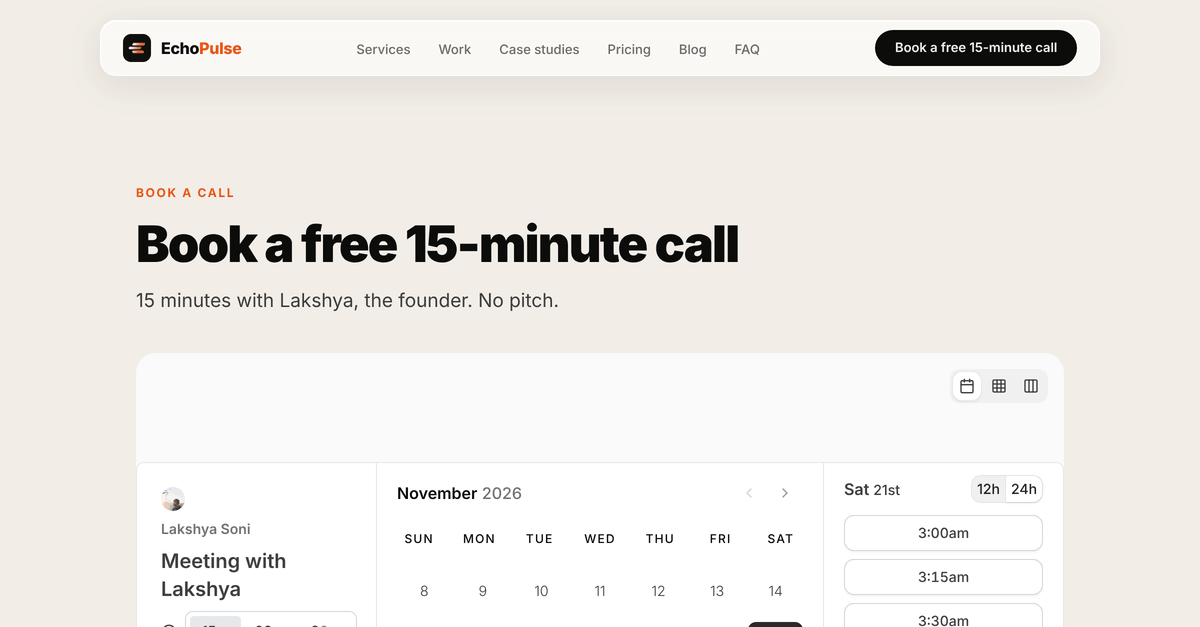
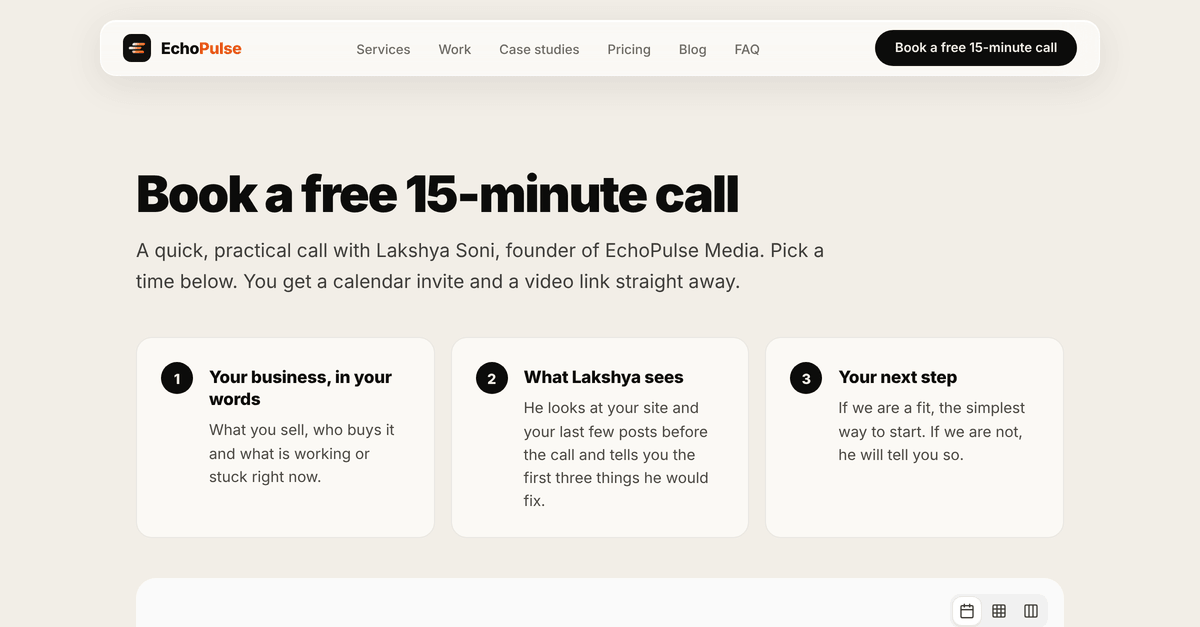
Book page: what happens on the call, who you talk to and a short FAQ around the calendar; custom cursor hides over embedded calendars instead of freezing at their edge
Claude-Session: https://claude.ai/code/session_01Qz8DN2rpKWMigkZSWL7YHW

diff --git a/app/book/page.tsx b/app/book/page.tsx
@@ -2,7 +2,8 @@ import type { Metadata } from 'next';
 import Nav from '@/components/Nav';
 import Footer from '@/components/Footer';
 import BookPageEmbed from '@/components/BookPageEmbed';
-import { BOOK_CALL_LABEL, BOOK_CALL_REASSURANCE } from '@/lib/links';
+import Link from 'next/link';
+import { BOOK_CALL_LABEL } from '@/lib/links';
 import { ogImages } from '@/lib/ogImages';
 
 /**
@@ -43,6 +44,20 @@ export const metadata: Metadata = {
   },
 };
 
+const STEPS = [
+  { t: 'Your business, in your words', d: 'What you sell, who buys it and what is working or stuck right now.' },
+  { t: 'What Lakshya sees', d: 'He looks at your site and your last few posts before the call and tells you the first three things he would fix.' },
+  { t: 'Your next step', d: 'If we are a fit, the simplest way to start. If we are not, he will tell you so.' },
+];
+
+const FAQ = [
+  { q: 'Is it really free?', a: 'Yes. 15 minutes, no card and no obligation. You keep the notes whether or not you hire us.' },
+  { q: 'Is this a sales call?', a: 'No pitch. You get an honest read of your content, website and setup. If there is a fit, we tell you how to start, and you decide.' },
+  { q: 'Which time zone are the slots in?', a: 'The calendar shows times in your own time zone automatically. We work with clients in the US, UK, Canada, Australia, Western Europe and India.' },
+  { q: 'What should I have ready?', a: 'Nothing to prepare. If you want more out of the 15 minutes, have your website or main social profile open and one goal for the next 90 days.' },
+  { q: 'No time that works?', a: 'Email lakshyasoni2703@gmail.com with two or three times that suit you, or start with 2 free edited videos instead.' },
+];
+
 export default function BookPage() {
   return (
     <>
@@ -50,25 +65,87 @@ export default function BookPage() {
       <main id="main" className="bk-main">
         <div className="bk-wrap">
           <header className="bk-head">
-            <p className="bk-eyebrow">Book a call</p>
             <h1 className="bk-h1">{BOOK_CALL_LABEL}</h1>
-            <p className="bk-lead">{BOOK_CALL_REASSURANCE}</p>
+            <p className="bk-lead">
+              A quick, practical call with Lakshya Soni, founder of EchoPulse Media. Pick a time below. You get a calendar invite and a video link straight away.
+            </p>
           </header>
+
+          <ol className="bk-steps" aria-label="What happens on the call">
+            {STEPS.map((s, i) => (
+              <li key={s.t}>
+                <span className="bk-n" aria-hidden="true">{i + 1}</span>
+                <div>
+                  <p className="bk-st">{s.t}</p>
+                  <p>{s.d}</p>
+                </div>
+              </li>
+            ))}
+          </ol>
+
           <BookPageEmbed />
+
+          <section className="bk-more" aria-labelledby="bk-faq-h">
+            <div className="bk-who">
+              <h2 id="bk-who-h">Who you will talk to</h2>
+              <p>
+                <Link href="/about/lakshya-soni">Lakshya Soni</Link>, the founder. He runs every first call himself and reviews every piece of work before a client sees it. EchoPulse Media is a growth partner for founders and businesses: content, websites, custom software, AI and automation, and search.
+              </p>
+              <p className="bk-links">
+                <Link href="/case-studies">See the case studies</Link>
+                <Link href="/pricing">See the prices</Link>
+              </p>
+            </div>
+            <div className="bk-faq">
+              <h2 id="bk-faq-h">Before you book</h2>
+              <dl>
+                {FAQ.map((f) => (
+                  <div key={f.q}>
+                    <dt>{f.q}</dt>
+                    <dd>
+                      {f.q === 'No time that works?' ? (
+                        <>
+                          Email <a href="mailto:lakshyasoni2703@gmail.com">lakshyasoni2703@gmail.com</a> with two or three times that suit you, or <Link href="/free-edits">start with 2 free edited videos</Link> instead.
+                        </>
+                      ) : f.a}
+                    </dd>
+                  </div>
+                ))}
+              </dl>
+            </div>
+          </section>
         </div>
       </main>
       <Footer />
       <style>{`
         .bk-main { background: #F2EEE7; font-family: Inter, sans-serif; color: #0C0C0B; }
-        .bk-wrap { width: 100%; max-width: 1040px; margin: 0 auto; padding: 184px 56px 112px; }
-        .bk-head { margin-bottom: 36px; }
-        .bk-eyebrow { margin: 0 0 16px; font-size: 12px; font-weight: 700; letter-spacing: 0.14em; text-transform: uppercase; color: #E8541A; }
+        .bk-wrap { width: 100%; max-width: 1040px; margin: 0 auto; padding: 168px 56px 112px; }
+        .bk-head { margin-bottom: 40px; max-width: 720px; }
         .bk-h1 { margin: 0 0 16px; font-size: clamp(36px, 4.2vw, 56px); font-weight: 900; letter-spacing: -0.035em; line-height: 1.04; text-wrap: balance; }
-        .bk-lead { margin: 0; font-size: 19px; line-height: 1.6; color: #3E3D3A; max-width: 60ch; }
+        .bk-lead { margin: 0; font-size: 19px; line-height: 1.6; color: #3E3D3A; }
+        .bk-steps { list-style: none; margin: 0 0 40px; padding: 0; display: grid; grid-template-columns: repeat(3, minmax(0, 1fr)); gap: 16px; }
+        .bk-steps li { display: grid; grid-template-columns: 32px minmax(0, 1fr); gap: 16px; padding: 24px; background: #FBF9F5; border: 1px solid rgba(12,12,11,0.08); border-radius: 16px; }
+        .bk-n { width: 32px; height: 32px; border-radius: 50%; background: #0C0C0B; color: #F2EEE7; font-size: 14px; font-weight: 800; display: flex; align-items: center; justify-content: center; }
+        .bk-steps .bk-st { margin: 4px 0 8px !important; font-size: 17px !important; color: #0C0C0B !important; font-weight: 800; letter-spacing: -0.01em; line-height: 1.3; }
+        .bk-steps p:not(.bk-st) { margin: 0; font-size: 15px; line-height: 1.55; color: #4A4740; }
+        .bk-more { display: grid; grid-template-columns: minmax(0, 5fr) minmax(0, 7fr); gap: 64px; margin-top: 80px; padding-top: 48px; border-top: 1px solid rgba(12,12,11,0.12); }
+        .bk-more h2 { margin: 0 0 16px; font-size: 24px; font-weight: 800; letter-spacing: -0.02em; line-height: 1.2; }
+        .bk-who p { margin: 0 0 16px; font-size: 16px; line-height: 1.65; color: #3E3D3A; }
+        .bk-more a { color: #0C0C0B; font-weight: 700; text-decoration: underline; text-decoration-color: #E8541A; text-underline-offset: 4px; }
+        .bk-links { display: flex; flex-wrap: wrap; gap: 24px; }
+        .bk-faq dl { margin: 0; }
+        .bk-faq dl > div { padding: 20px 0; border-bottom: 1px solid rgba(12,12,11,0.1); }
+        .bk-faq dl > div:first-child { padding-top: 0; }
+        .bk-faq dt { margin: 0 0 8px; font-size: 16px; font-weight: 800; }
+        .bk-faq dd { margin: 0; font-size: 15px; line-height: 1.6; color: #4A4740; }
         @media (max-width: 900px) {
-          .bk-wrap { padding: 140px 16px 80px; }
+          .bk-wrap { padding: 128px 16px 80px; }
           .bk-head { margin-bottom: 24px; }
           .bk-lead { font-size: 17px; }
+          .bk-steps { grid-template-columns: 1fr; gap: 8px; margin-bottom: 24px; }
+          .bk-steps li { padding: 16px; gap: 12px; }
+          .bk-steps .bk-st { font-size: 16px !important; margin-top: 5px !important; }
+          .bk-more { grid-template-columns: 1fr; gap: 40px; margin-top: 56px; padding-top: 40px; }
         }
       `}</style>
     </>

diff --git a/components/BookPageEmbed.tsx b/components/BookPageEmbed.tsx
@@ -92,8 +92,8 @@ export default function BookPageEmbed() {
       )}
       <style>{`
         .bk-embed { position: relative; }
-        .bk-frame { display: block; width: 100%; height: 760px; border: 0; background: #F2EEE7; color-scheme: light; border-radius: 20px; transition: opacity 0.3s ease; }
-        .bk-loading { position: absolute; top: 0; left: 0; right: 0; height: 760px; display: flex; flex-direction: column; align-items: center; justify-content: center; gap: 14px; padding: 24px; text-align: center; font-size: 14px; color: #4A4740; }
+        .bk-frame { display: block; width: 100%; height: 680px; border: 0; background: #F2EEE7; color-scheme: light; border-radius: 20px; transition: opacity 0.3s ease; }
+        .bk-loading { position: absolute; top: 0; left: 0; right: 0; height: 680px; display: flex; flex-direction: column; align-items: center; justify-content: center; gap: 14px; padding: 24px; text-align: center; font-size: 14px; color: #4A4740; }
         .bk-spin { width: 36px; height: 36px; border-radius: 50%; border: 3px solid rgba(12,12,11,0.1); border-top-color: #E8541A; animation: bk-spin 0.8s linear infinite; }
         .bk-link { font-size: 14px; font-weight: 700; color: #0C0C0B; text-decoration: underline; text-decoration-color: #E8541A; text-underline-offset: 4px; min-height: 44px; display: inline-flex; align-items: center; }
         .bk-fallback { margin: 12px 0 0; text-align: center; font-size: 13px; color: #6E6B63; }

diff --git a/components/Cursor.tsx b/components/Cursor.tsx
@@ -101,7 +101,12 @@ export default function Cursor() {
       const x = clientX ?? mx, y = clientY ?? my;
       const el = (x >= 0 && y >= 0) ? document.elementFromPoint(x, y) : null;
       const overText = !!(el && (el as Element).closest?.(TEXT_INPUT));
-      if (!overText) {
+      // Over an embedded frame (the Cal.com calendar on /book and in the
+      // booking modal): the parent page stops receiving mouse events, so the
+      // custom cursor would freeze at the frame's edge. Keep it hidden there;
+      // the frame shows its own native cursor.
+      const overFrame = !!(el && (el as Element).tagName === 'IFRAME');
+      if (!overText && !overFrame) {
         dot.style.opacity = '';
         ring.style.opacity = '';
       }
@@ -126,6 +131,13 @@ export default function Cursor() {
 
     const over = (e: MouseEvent) => {
       const target = e.target as Element;
+      // Entering an iframe → hide, for the reason given in reveal().
+      if (target?.tagName === 'IFRAME') {
+        dot.style.opacity = '0';
+        ring.style.opacity = '0';
+        snap = true;
+        return;
+      }
       // Over a text input → hide the custom cursor entirely so the native
       // I-beam shows. Users see exactly where they'll type.
       if (target?.closest?.(TEXT_INPUT)) {
